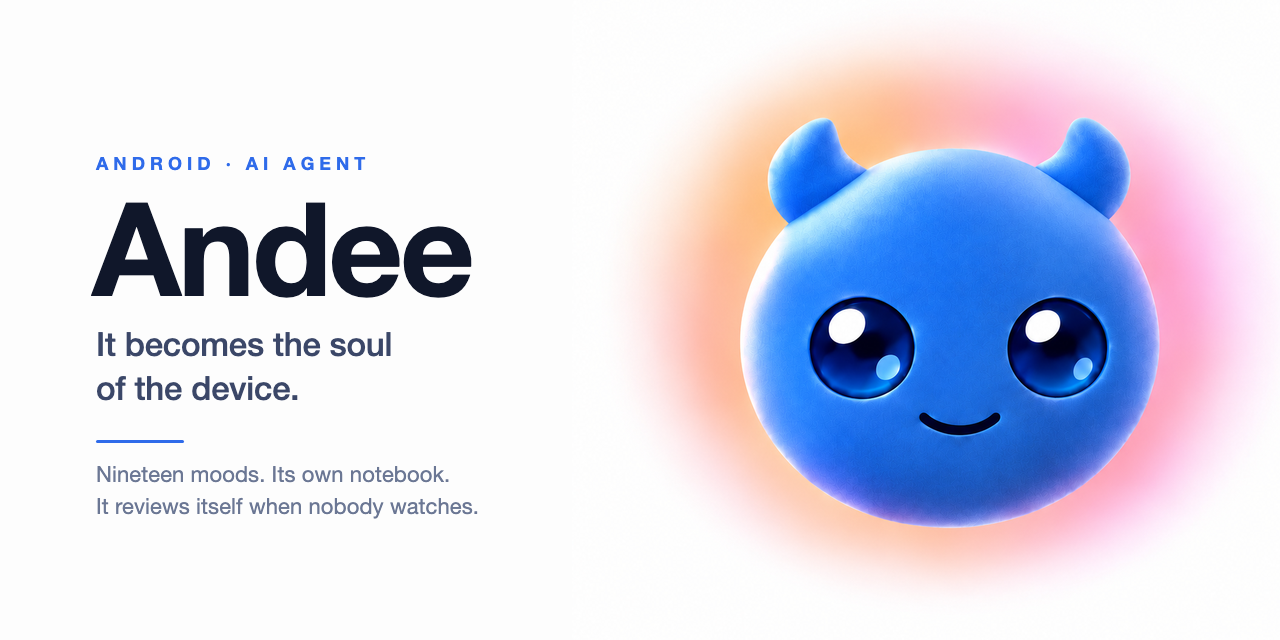
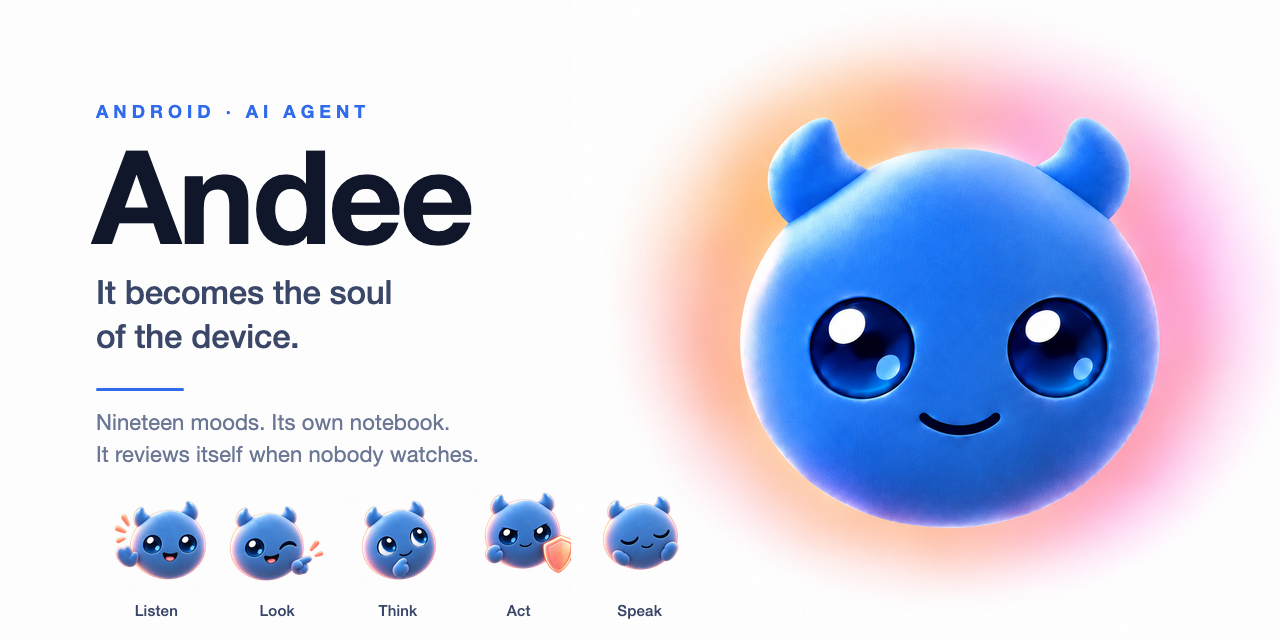
feat(brand): put five of the character's faces along the bottom of the cover
The cover and the social card both ended on two lines of small grey text. They now end on a row of
five of the character's own faces, one word under each - 听 看 想 做 说, Listen Look Think Act Speak.
The five are the app's illustrations rather than drawings made for the web, and they are the *gesture*
moods (WAVE, WINK, THINKING, PROTECT, REST) - the set the web renderer cannot draw, because these are
drawn with props. So this is the first place the cover shows the character instead of describing it.

It could not be a full-width band. The head's chin sits near y=536 and the canvas is 640, so the row is
confined to the left column, which is 604px wide because the head's left edge is at about 710 - and that
caps the faces at roughly 104px. It also needed about a hundred pixels, and the column had about 115 of
slack to the canvas edge, so the whole column moved up 60px: eyebrow, wordmark, tagline, rule and both
foot lines.

The five sources are cuts from one sheet, and two of them brought a neighbour along: `protect` carries
2226px of something else on its left edge (x=0..30) and `rest` carries 2960px (x=0..41). Two rules were
tried and rejected before the third worked, and both are worth writing down because each fails in a way
that looks fine until you look at the render. Deleting by "is it connected to the ball" also deletes
`wave`'s and `wink`'s orange motion marks, 3979px and 2158px of deliberately detached drawing. Deleting
[…]

diff --git a/tools/make_social_preview.py b/tools/make_social_preview.py
@@ -48,9 +48,20 @@ ART_CX, ART_CY = 952.0, 322.0
 # 头部本身的直径（量出来的 693px）按同比例缩放后的值，用于文字间距自检。
 HEAD_W_SRC = 693.0
 
-# 文字基线
-Y_EYEBROW, Y_TITLE, Y_TAG = 170, 296, 356
-Y_RULE, Y_FOOT = 440, 482
+# 文字基线（比原来整体上移 60px，给最下面那条表情行让位）
+Y_EYEBROW, Y_TITLE, Y_TAG = 118, 244, 304
+Y_RULE, Y_FOOT = 388, 430
+
+# 最下面那条「一张插画 + 一个字」的行：五张横向排开，标签居中在每张下面。
+# 宽度锁在左栏里（96 → 700），所以它不会碰到右边那颗头。
+# 插画是 App 的手势情绪（WINK / WAVE / PROTECT / REST 那批带道具的），
+# 网页渲染器 ball.js 画不出它们，所以这里用的是真图，不是渲出来的。
+FLOW_W = 604
+FLOW_IMG = 104
+FLOW_TOP = 486
+FLOW_LABEL_DY = 26
+FLOW_FONT = 15
+FLOW_DIR = REPO / "images" / "brand" / "illustrations"
 
 INK = "#10172A"
 INK_SOFT = "#3B4768"
@@ -62,6 +73,8 @@ EN = {
     "title": "Andee",
     "tagline": ["It becomes the soul", "of the device."],
     "foot": ["Nineteen moods. Its own notebook.", "It reviews itself when nobody watches."],
+    "flow": [("wave", "Listen"), ("wink", "Look"), ("think", "Think"),
+             ("protect", "Act"), ("rest", "Speak")],
     "font": "'SF Pro Display','Helvetica Neue',Helvetica,Arial,sans-serif",
 }
 ZH = {
@@ -69,6 +82,8 @@ ZH = {
     "title": "Andee",
     "tagline": ["他会成为这台设备的", "主人。"],
     "foot": ["十九种情绪、一本只有他自己能读的笔记本。", "没人看着的时候，他会自己复盘。"],
+    "flow": [("wave", "听"), ("wink", "看"), ("think", "想"),
+             ("protect", "做"), ("rest", "说")],
     "font": "'PingFang SC','Hiragino Sans GB','Heiti SC',sans-serif",
 }
 
@@ -87,6 +102,11 @@ def build_svg(copy: dict) -> str:
     foot = "\n  ".join(
         f'<text x="96" y="{Y_FOOT + i * 32}" class="foot" fill="{INK_FAINT}">{html.escape(l)}</text>'
         for i, l in enumerate(copy["foot"]))
+    cell_w = FLOW_W / len(copy["flow"])
+    flow = "\n  ".join(
+        f'<text x="{96 + i * cell_w + cell_w / 2:.1f}" y="{FLOW_TOP + FLOW_IMG + FLOW_LABEL_DY}"'
+        f' text-anchor="middle" class="flow" fill="{INK_SOFT}">{html.escape(label)}</text>'
+        for i, (_, label) in enumerate(copy["flow"]))
     return f'''<svg xmlns="http://www.w3.org/2000/svg" width="{W}" height="{H}" viewBox="0 0 {W} {H}">
   <defs>
     <style>
@@ -94,6 +114,7 @@ def build_svg(copy: dict) -> str:
       .wordmark {{ font-family: {f}; font-size: 130px; font-weight: 700; letter-spacing: -3px; }}
       .tag {{ font-family: {f}; font-size: 33px; font-weight: 500; letter-spacing: -0.2px; }}
       .foot {{ font-family: {f}; font-size: 22px; font-weight: 400; letter-spacing: 0.1px; }}
+      .flow {{ font-family: {f}; font-size: {FLOW_FONT}px; font-weight: 500; letter-spacing: 0.2px; }}
     </style>
   </defs>
   <text x="96" y="{Y_EYEBROW}" class="eyebrow" fill="{ACCENT}">{html.escape(copy["eyebrow"])}</text>
@@ -101,6 +122,7 @@ def build_svg(copy: dict) -> str:
   {tag}
   <rect x="96" y="{Y_RULE}" width="88" height="3" rx="1.5" fill="{ACCENT}"/>
   {foot}
+  {flow}
 </svg>
 '''
 
@@ -132,11 +154,80 @@ def text_right_edge(text_layer: Path) -> int:
     return int(cols.max()) if len(cols) else 0
 
 
+def _flood(mask, seed):
+    """8 连通泛洪，返回该连通块的布尔掩码。"""
+    h, w = mask.shape
+    seen = np.zeros_like(mask)
+    stack = [seed]
+    seen[seed] = True
+    while stack:
+        y, x = stack.pop()
+        for dy in (-1, 0, 1):
+            yy = y + dy
+            if yy < 0 or yy >= h:
+                continue
+            for dx in (-1, 0, 1):
+                xx = x + dx
+                if 0 <= xx < w and mask[yy, xx] and not seen[yy, xx]:
+                    seen[yy, xx] = True
+                    stack.append((yy, xx))
+    return seen
+
+
+def _drop_edge_fragments(im):
+    """抹掉贴着画布边缘的连通块，返回 (新图, 抹掉多少像素)。
+
+    这套插画是从一张拼图上切出来的，边上会把**隔壁那只**的一小条一起带进来：
+    `protect` 左侧 x=0..30 有 2226px、`rest` 左侧 x=0..41 有 2960px。
+
+    ⚠ 判据是「**被画布的左边或上边切开**」（`x0 == 0 or y0 == 0`），有两个坑：
+    1. **不能按"连不连着球"删** —— `wave` / `wink` 里那几笔橙色动效线本来就脱离主体
+       （3979px / 2158px），是画的一部分，按连通删会把它们一起删掉。
+    2. **不能写成"贴任意一条边就删"** —— `protect` 的**主体**包围盒是 x=88..512，
+       它自己就被画布右边切了；按"贴边"删会把整个主体删掉（第 4 格会变空）。
+       真正的规律是：这套图是从拼图上**从左往右**切的，溢出来的邻居只会落在**左边缘**
+       （`protect` x=0..30、`rest` x=0..41 都是），所以只认左边和上边。
+    """
+    a = np.asarray(im).copy()
+    mask = a[:, :, 3] > 16
+    ys, xs = np.nonzero(mask)
+    done = np.zeros_like(mask)
+    removed = 0
+    for k in range(0, len(ys), 8):       # 抽样做种子就够：连通块比 8px 大得多
+        seed = (int(ys[k]), int(xs[k]))
+        if done[seed]:
+            continue
+        comp = _flood(mask, seed)
+        done |= comp
+        cy, cx = np.nonzero(comp)
+        if cx.min() == 0 or cy.min() == 0:
+            a[comp, 3] = 0
+            removed += int(comp.sum())
+    return Image.fromarray(a), removed
+
+
+def flow_layer(copy: dict):
+    """五张插画按同一高度排成一行（源图是 512×512 方图，直接缩，不裁边）。
+
+    刻意**不裁透明边**：这五张是同一套画，球的大小和位置本来就一致，伸出去的是道具
+    （挥手、盾牌、手指）和动效线。裁边会把带道具的那几张的包围盒撑宽、按高度归一化之后
+    球反而变小 —— 五个排出来一大一小。整张方图一起缩，球的尺寸才是齐的。
+    只做一件事：把误切进来的邻居碎片抹掉（见 [_drop_edge_fragments]）。
+    """
+    cell_w = FLOW_W / len(copy["flow"])
+    for i, (key, _) in enumerate(copy["flow"]):
+        im, _ = _drop_edge_fragments(Image.open(FLOW_DIR / f"{key}.webp").convert("RGBA"))
+        im = im.resize((FLOW_IMG, FLOW_IMG), Image.LANCZOS)
+        yield im, (round(96 + i * cell_w + (cell_w - FLOW_IMG) / 2), FLOW_TOP)
+
+
 def compose(copy, name, tmp, size=None):
     base = Image.new("RGB", (W, H), (253, 253, 253)).convert("RGBA")
     art = art_layer(ART_SIDE).convert("RGBA")
     left, top = int(ART_CX - ART_SIDE / 2), int(ART_CY - ART_SIDE / 2)
     base.alpha_composite(art, (left, top)) if left >= 0 and top >= 0 else base.paste(art, (left, top))
+    for im, xy in flow_layer(copy):
+        base.alpha_composite(im, xy)
     text_layer = render_text_layer(build_svg(copy), tmp)
     base.alpha_composite(Image.open(text_layer).convert("RGBA"))
     final = base.convert("RGB")
